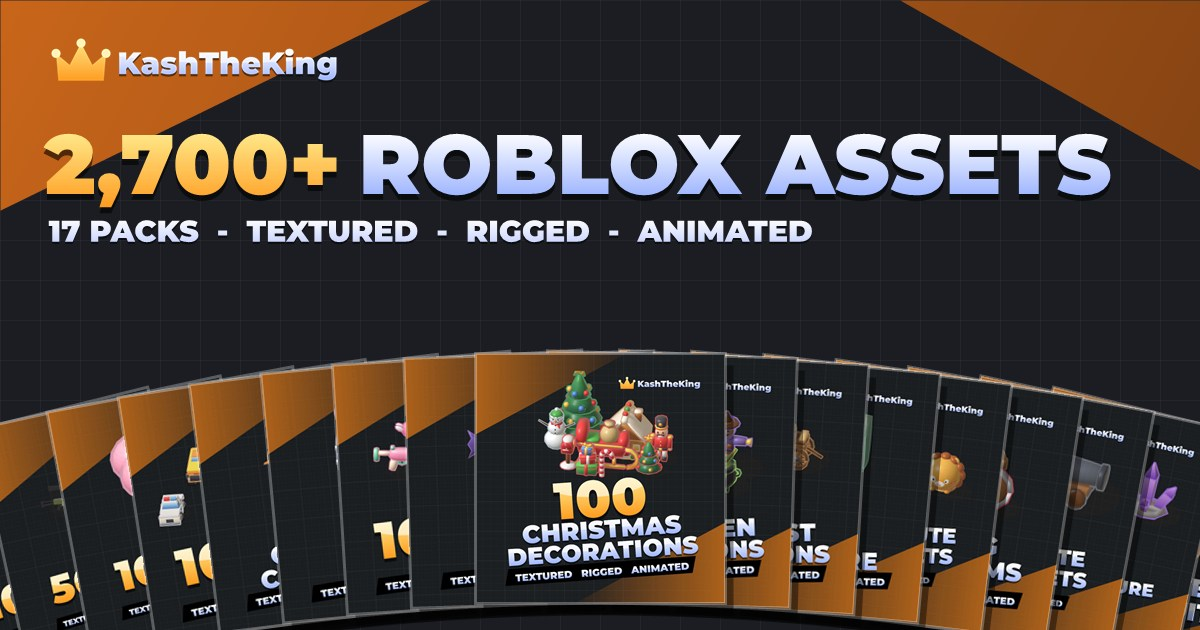
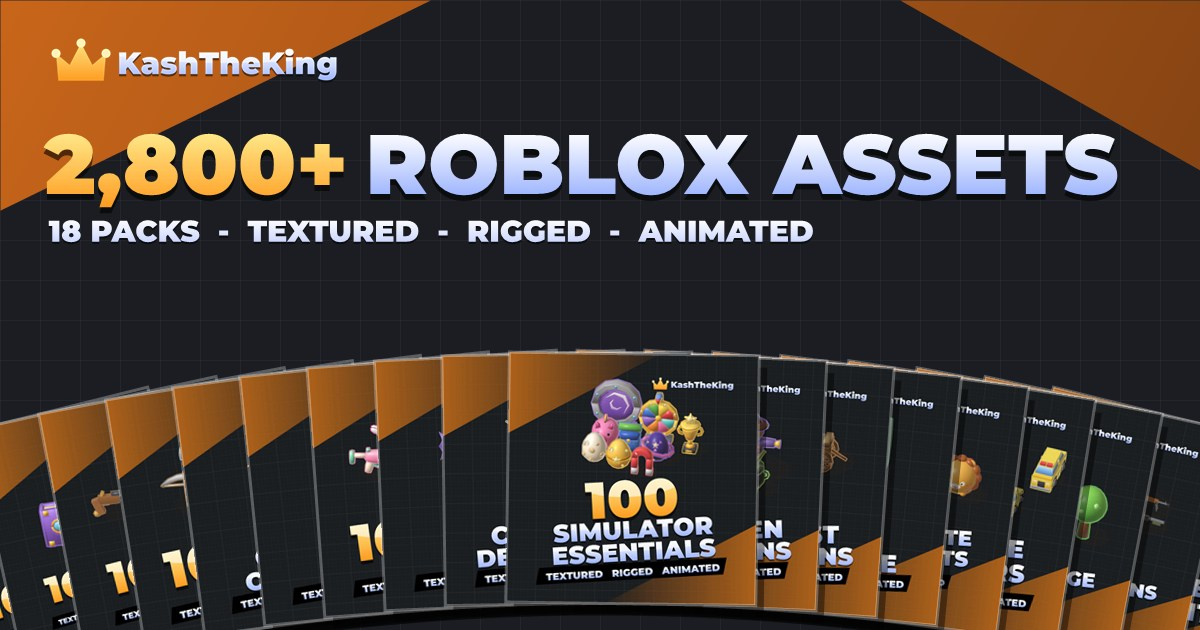
Shop: add 100 Simulator Essentials

diff --git a/shop/index.html b/shop/index.html
@@ -17,7 +17,7 @@
     <link rel="icon" type="image/png" sizes="32x32" href="/assets/favicon-crown-32.png">
     <link rel="apple-touch-icon" sizes="180x180" href="/assets/favicon-crown-180.png">
     <link rel="canonical" href="https://kashtheking.com/shop/">
-    <!--packs:start--><script type="application/ld+json">{"@context":"https://schema.org","@type":"ItemList","name":"Roblox asset packs by KashTheKing","numberOfItems":17,"itemListElement":[{"@type":"ListItem","position":1,"name":"100 Christmas Decorations","url":"https://kashtheking.com/shop/100-christmas-decorations/"},{"@type":"ListItem","position":2,"name":"100 Spooky Tools","url":"https://kashtheking.com/shop/100-spooky-tools/"},{"@type":"ListItem","position":3,"name":"100 Halloween Decorations","url":"https://kashtheking.com/shop/100-halloween-decorations/"},{"@type":"ListItem","position":4,"name":"100 Cute Guns","url":"https://kashtheking.com/shop/100-cute-guns/"},{"@type":"ListItem","position":5,"name":"100 Wild West Decorations","url":"https://kashtheking.com/shop/100-wild-west-decorations/"},{"@type":"ListItem","position":6,"name":"100 Cute Furniture","url":"https://kashtheking.com/shop/100-cute-furniture/"},{"@type":"ListItem","position":7,"name":"100 Cute Tycoon Assets","url":"https://kashtheking.com/shop/100-cute-tycoon-assets/"},{"@type":"ListItem","position":8,"name":"1000 Cute Pets","url":"https://kashtheking.com/shop/1000-cute-pets/"},{"@type":"ListItem","position":9,"name":"250 Cute Sea Creatures","url":"https://kashtheking.com/shop/250-cute-sea-creatures/"},{"@type":"ListItem","position":10,"name":"100 RPG Items","url":"https://kashtheking.com/shop/100-rpg-items/"},{"@type":"ListItem","position":11,"name":"100 Cute Cars","url":"https://kashtheking.com/shop/100-cute-cars/"},{"@type":"ListItem","position":12,"name":"100 Cute Foliage","url":"https://kashtheking.com/shop/100-cute-foliage/"},{"@type":"ListItem","position":13,"name":"100 Pirate Assets","url":"https://kashtheking.com/shop/100-pirate-assets/"},{"@type":"ListItem","position":14,"name":"100 Magic \u0026 Treasure Items","url":"https://kashtheking.com/shop/100-magic-and-treasure-items/"},{"@type":"ListItem","position":15,"name":"50 Low Poly Guns","url":"https://kashtheking.com/shop/50-low-poly-guns/"},{"@type":"ListItem","position":16,"name":"100 Cute Fruits","url":"https://kashtheking.com/shop/100-cute-fruits/"},{"@type":"ListItem","position":17,"name":"100 RPG Enemies","url":"https://kashtheking.com/shop/100-rpg-enemies/"}]}</script><!--packs:end-->
+    <!--packs:start--><script type="application/ld+json">{"@context":"https://schema.org","@type":"ItemList","name":"Roblox asset packs by KashTheKing","numberOfItems":18,"itemListElement":[{"@type":"ListItem","position":1,"name":"100 Simulator Essentials","url":"https://kashtheking.com/shop/100-simulator-essentials/"},{"@type":"ListItem","position":2,"name":"100 Christmas Decorations","url":"https://kashtheking.com/shop/100-christmas-decorations/"},{"@type":"ListItem","position":3,"name":"100 Spooky Tools","url":"https://kashtheking.com/shop/100-spooky-tools/"},{"@type":"ListItem","position":4,"name":"100 Halloween Decorations","url":"https://kashtheking.com/shop/100-halloween-decorations/"},{"@type":"ListItem","position":5,"name":"100 Cute Guns","url":"https://kashtheking.com/shop/100-cute-guns/"},{"@type":"ListItem","position":6,"name":"100 Wild West Decorations","url":"https://kashtheking.com/shop/100-wild-west-decorations/"},{"@type":"ListItem","position":7,"name":"100 Cute Furniture","url":"https://kashtheking.com/shop/100-cute-furniture/"},{"@type":"ListItem","position":8,"name":"100 Cute Tycoon Assets","url":"https://kashtheking.com/shop/100-cute-tycoon-assets/"},{"@type":"ListItem","position":9,"name":"1000 Cute Pets","url":"https://kashtheking.com/shop/1000-cute-pets/"},{"@type":"ListItem","position":10,"name":"250 Cute Sea Creatures","url":"https://kashtheking.com/shop/250-cute-sea-creatures/"},{"@type":"ListItem","position":11,"name":"100 RPG Items","url":"https://kashtheking.com/shop/100-rpg-items/"},{"@type":"ListItem","position":12,"name":"100 Cute Cars","url":"https://kashtheking.com/shop/100-cute-cars/"},{"@type":"ListItem","position":13,"name":"100 Cute Foliage","url":"https://kashtheking.com/shop/100-cute-foliage/"},{"@type":"ListItem","position":14,"name":"100 Pirate Assets","url":"https://kashtheking.com/shop/100-pirate-assets/"},{"@type":"ListItem","position":15,"name":"100 Magic \u0026 Treasure Items","url":"https://kashtheking.com/shop/100-magic-and-treasure-items/"},{"@type":"ListItem","position":16,"name":"50 Low Poly Guns","url":"https://kashtheking.com/shop/50-low-poly-guns/"},{"@type":"ListItem","position":17,"name":"100 Cute Fruits","url":"https://kashtheking.com/shop/100-cute-fruits/"},{"@type":"ListItem","position":18,"name":"100 RPG Enemies","url":"https://kashtheking.com/shop/100-rpg-enemies/"}]}</script><!--packs:end-->
     <link href="https://fonts.googleapis.com/css2?family=Inter:wght@400;600;700;800&family=Montserrat:wght@800;900&display=swap" rel="stylesheet">
     <style>
         * { margin: 0; padding: 0; box-sizing: border-box; }
@@ -104,7 +104,7 @@
     </div>
 
     <main>
-        <div id="grid" class="grid" aria-live="polite"><!--grid:start--><a class="card" href="100-christmas-decorations/"><img src="img/100Christmas.jpg" alt="100 Christmas Decorations Roblox asset pack" loading="lazy" width="540" height="540"><div class="body"><h2>100 Christmas Decorations</h2><p>100 chunky low-poly Christmas and winter decorations: snowy pines and decorated trees, presents, candy canes and gingerbread, snowmen and snow forts, ice, ornaments, lights and village props. Textured, rigged and animated.</p></div></a><a class="card" href="100-spooky-tools/"><img src="img/100SpookyTools.jpg" alt="100 Spooky Tools Roblox asset pack" loading="lazy" width="540" height="540"><div class="body"><h2>100 Spooky Tools</h2><p>100 chunky low-poly Halloween tools for simulator and survival games: axes, pickaxes, hammers, shovels, swords, scythes, staffs and pitchforks in upgrade tiers from wood and bone to pumpkin, bat, slime, skull and cursed. Textured, rigged and animated.</p></div></a><a class="card" href="100-halloween-decorations/"><img src="img/100HalloweenDecor.jpg" alt="100 Halloween Decorations Roblox asset pack" loading="lazy" width="540" height="540"><div class="body"><h2>100 Halloween Decorations</h2><p>100 chunky cute-spooky Halloween map decorations: dead trees, pumpkins and jack-o-lanterns, gravestones and crypts, fences and gates, candles and lanterns, witch props, bones and decor. Textured, rigged and animated.</p></div></a><a class="card" href="100-cute-guns/"><img src="img/100CuteGuns.jpg" alt="100 Cute Guns Roblox asset pack" loading="lazy" width="540" height="540"><div class="body"><h2>100 Cute Guns</h2><p>100 cute, chubby toy blasters: pistols, SMGs, rifles, shotguns, snipers, launchers, ray guns and novelty guns in pastel and candy colours. Textured, rigged and animated.</p></div></a><a class="card" href="100-wild-west-decorations/"><img src="img/100WildWest.jpg" alt="100 Wild West Decorations Roblox asset pack" loading="lazy" width="540" height="540"><div class="body"><h2>100 Wild West Decorations</h2><p>100 chunky low-poly Wild West map decorations: cacti, tumbleweeds, dead trees, desert rocks and mesas, town props, ranch fences and wagons, mine carts and rails, and camp gear. Textured, rigged and animated.</p></div></a><a class="card" href="100-cute-furniture/"><img src="img/100CuteFurniture.jpg" alt="100 Cute Furniture Roblox asset pack" loading="lazy" width="540" height="540"><div class="body"><h2>100 Cute Furniture</h2><p>100 cute rounded low-poly furniture pieces in pastel colours for roleplay, housing and tycoon games: living room, bedroom, kitchen, bathroom, office, kids and gaming, decor and outdoor. Textured, rigged and animated.</p></div></a><a class="card" href="100-cute-tycoon-assets/"><img src="img/100CuteTycoon.jpg" alt="100 Cute Tycoon Assets Roblox asset pack" loading="lazy" width="540" height="540"><div class="body"><h2>100 Cute Tycoon Assets</h2><p>100 cute rounded pastel tycoon assets: droppers in ten tiers, conveyors and pipes, upgraders, furnaces and machines, cash, coins, gold and safes, crates and ores, walls, doors, floors and stairs, decor, buttons, pads, trophies and a teleporter. Textured, rigged and animated.</p></div></a><a class="card" href="1000-cute-pets/"><img src="img/1000CutePets.jpg" alt="1000 Cute Pets Roblox asset pack" loading="lazy" width="540" height="540"><div class="body"><h2>1000 Cute Pets</h2><p>1000 cute round pets and animals with happy, neutral and angry faces. Cats, dogs, farm, forest, safari, birds, reptiles, sea creatures, bugs and mythical beasts. Textured, rigged and animated.</p></div></a><a class="card" href="250-cute-sea-creatures/"><img src="img/250CuteSeaCreatures.jpg" alt="250 Cute Sea Creatures Roblox asset pack" loading="lazy" width="540" height="540"><div class="body"><h2>250 Cute Sea Creatures</h2><p>250 cute low-poly sea creatures: fish, sharks, whales, dolphins, crabs, lobsters, octopuses, squid, jellyfish and more. They swim, blink and bite. Textured, rigged and animated.</p></div></a><a class="card" href="100-rpg-items/"><img src="img/100RPGItems.jpg" alt="100 RPG Items Roblox asset pack" loading="lazy" width="540" height="540"><div class="body"><h2>100 RPG Items</h2><p>100 chunky low-poly RPG and survival items: tools, weapons, armour, gear, food, resources, crafting stations and economy props. Textured, rigged and animated.</p></div></a><a class="card" href="100-cute-cars/"><img src="img/100CuteCars.jpg" alt="100 Cute Cars Roblox asset pack" loading="lazy" width="540" height="540"><div class="body"><h2>100 Cute Cars</h2><p>100 low-poly cartoon cars: compacts, sedans, sports cars, utility vehicles, service vehicles, fun vehicles, heavy trucks and vintage cars. Wheels are separate bones that spin, tyres have a black outline, no interiors. Textured, rigged and animated.</p></div></a><a class="card" href="100-cute-foliage/"><img src="img/100CuteFoliage.jpg" alt="100 Cute Foliage Roblox asset pack" loading="lazy" width="540" height="540"><div class="body"><h2>100 Cute Foliage</h2><p>100 cute low-poly terrain decorations: trees, pines, bushes, grass, flowers, mushrooms, rocks, fallen logs and stumps. Textured, rigged and animated.</p></div></a><a class="card" href="100-pirate-assets/"><img src="img/100PirateAssets.jpg" alt="100 Pirate Assets Roblox asset pack" loading="lazy" width="540" height="540"><div class="body"><h2>100 Pirate Assets</h2><p>100 chunky low-poly pirate assets: characters, creatures, weapons, treasure, ship parts and island props. Textured, rigged and animated.</p></div></a><a class="card" href="100-magic-and-treasure-items/"><img src="img/100MagicTreasure.jpg" alt="100 Magic &amp; Treasure Items Roblox asset pack" loading="lazy" width="540" height="540"><div class="body"><h2>100 Magic &amp; Treasure Items</h2><p>100 chunky low-poly potions, gems, crystals, magic items, jewelry and treasure. Textured, rigged and animated.</p></div></a><a class="card" href="50-low-poly-guns/"><img src="img/50LowPolyGuns.jpg" alt="50 Low Poly Guns Roblox asset pack" loading="lazy" width="540" height="540"><div class="body"><h2>50 Low Poly Guns</h2><p>50 chunky low-poly guns and firearms. Textured, rigged and animated.</p></div></a><a class="card" href="100-cute-fruits/"><img src="img/100CuteFruits.jpg" alt="100 Cute Fruits Roblox asset pack" loading="lazy" width="540" height="540"><div class="body"><h2>100 Cute Fruits</h2><p>100 cute low-poly fruits with blinking faces and a soft glowing outline. Every fruit has an idle wiggle and a blink.</p></div></a><a class="card" href="100-rpg-enemies/"><img src="img/100RPGEnemies.jpg" alt="100 RPG Enemies Roblox asset pack" loading="lazy" width="540" height="540"><div class="body"><h2>100 RPG Enemies</h2><p>100 chunky low-poly RPG enemies: cute slimes, big angry slimes, skeletons, undead, goblins and orcs, golems, dragons, beasts and dark forces. Textured, rigged and animated.</p></div></a><!--grid:end--></div>
+        <div id="grid" class="grid" aria-live="polite"><!--grid:start--><a class="card" href="100-simulator-essentials/"><img src="img/100SimulatorEssentials.jpg" alt="100 Simulator Essentials Roblox asset pack" loading="lazy" width="540" height="540"><div class="body"><h2>100 Simulator Essentials</h2><p>100 chunky low-poly props for simulator games: pet eggs, hatching stands, coins and gems, breakables, gates, portals and islands, shop and upgrade stations, boosts and rewards. Textured, rigged and animated.</p></div></a><a class="card" href="100-christmas-decorations/"><img src="img/100Christmas.jpg" alt="100 Christmas Decorations Roblox asset pack" loading="lazy" width="540" height="540"><div class="body"><h2>100 Christmas Decorations</h2><p>100 chunky low-poly Christmas and winter decorations: snowy pines and decorated trees, presents, candy canes and gingerbread, snowmen and snow forts, ice, ornaments, lights and village props. Textured, rigged and animated.</p></div></a><a class="card" href="100-spooky-tools/"><img src="img/100SpookyTools.jpg" alt="100 Spooky Tools Roblox asset pack" loading="lazy" width="540" height="540"><div class="body"><h2>100 Spooky Tools</h2><p>100 chunky low-poly Halloween tools for simulator and survival games: axes, pickaxes, hammers, shovels, swords, scythes, staffs and pitchforks in upgrade tiers from wood and bone to pumpkin, bat, slime, skull and cursed. Textured, rigged and animated.</p></div></a><a class="card" href="100-halloween-decorations/"><img src="img/100HalloweenDecor.jpg" alt="100 Halloween Decorations Roblox asset pack" loading="lazy" width="540" height="540"><div class="body"><h2>100 Halloween Decorations</h2><p>100 chunky cute-spooky Halloween map decorations: dead trees, pumpkins and jack-o-lanterns, gravestones and crypts, fences and gates, candles and lanterns, witch props, bones and decor. Textured, rigged and animated.</p></div></a><a class="card" href="100-cute-guns/"><img src="img/100CuteGuns.jpg" alt="100 Cute Guns Roblox asset pack" loading="lazy" width="540" height="540"><div class="body"><h2>100 Cute Guns</h2><p>100 cute, chubby toy blasters: pistols, SMGs, rifles, shotguns, snipers, launchers, ray guns and novelty guns in pastel and candy colours. Textured, rigged and animated.</p></div></a><a class="card" href="100-wild-west-decorations/"><img src="img/100WildWest.jpg" alt="100 Wild West Decorations Roblox asset pack" loading="lazy" width="540" height="540"><div class="body"><h2>100 Wild West Decorations</h2><p>100 chunky low-poly Wild West map decorations: cacti, tumbleweeds, dead trees, desert rocks and mesas, town props, ranch fences and wagons, mine carts and rails, and camp gear. Textured, rigged and animated.</p></div></a><a class="card" href="100-cute-furniture/"><img src="img/100CuteFurniture.jpg" alt="100 Cute Furniture Roblox asset pack" loading="lazy" width="540" height="540"><div class="body"><h2>100 Cute Furniture</h2><p>100 cute rounded low-poly furniture pieces in pastel colours for roleplay, housing and tycoon games: living room, bedroom, kitchen, bathroom, office, kids and gaming, decor and outdoor. Textured, rigged and animated.</p></div></a><a class="card" href="100-cute-tycoon-assets/"><img src="img/100CuteTycoon.jpg" alt="100 Cute Tycoon Assets Roblox asset pack" loading="lazy" width="540" height="540"><div class="body"><h2>100 Cute Tycoon Assets</h2><p>100 cute rounded pastel tycoon assets: droppers in ten tiers, conveyors and pipes, upgraders, furnaces and machines, cash, coins, gold and safes, crates and ores, walls, doors, floors and stairs, decor, buttons, pads, trophies and a teleporter. Textured, rigged and animated.</p></div></a><a class="card" href="1000-cute-pets/"><img src="img/1000CutePets.jpg" alt="1000 Cute Pets Roblox asset pack" loading="lazy" width="540" height="540"><div class="body"><h2>1000 Cute Pets</h2><p>1000 cute round pets and animals with happy, neutral and angry faces. Cats, dogs, farm, forest, safari, birds, reptiles, sea creatures, bugs and mythical beasts. Textured, rigged and animated.</p></div></a><a class="card" href="250-cute-sea-creatures/"><img src="img/250CuteSeaCreatures.jpg" alt="250 Cute Sea Creatures Roblox asset pack" loading="lazy" width="540" height="540"><div class="body"><h2>250 Cute Sea Creatures</h2><p>250 cute low-poly sea creatures: fish, sharks, whales, dolphins, crabs, lobsters, octopuses, squid, jellyfish and more. They swim, blink and bite. Textured, rigged and animated.</p></div></a><a class="card" href="100-rpg-items/"><img src="img/100RPGItems.jpg" alt="100 RPG Items Roblox asset pack" loading="lazy" width="540" height="540"><div class="body"><h2>100 RPG Items</h2><p>100 chunky low-poly RPG and survival items: tools, weapons, armour, gear, food, resources, crafting stations and economy props. Textured, rigged and animated.</p></div></a><a class="card" href="100-cute-cars/"><img src="img/100CuteCars.jpg" alt="100 Cute Cars Roblox asset pack" loading="lazy" width="540" height="540"><div class="body"><h2>100 Cute Cars</h2><p>100 low-poly cartoon cars: compacts, sedans, sports cars, utility vehicles, service vehicles, fun vehicles, heavy trucks and vintage cars. Wheels are separate bones that spin, tyres have a black outline, no interiors. Textured, rigged and animated.</p></div></a><a class="card" href="100-cute-foliage/"><img src="img/100CuteFoliage.jpg" alt="100 Cute Foliage Roblox asset pack" loading="lazy" width="540" height="540"><div class="body"><h2>100 Cute Foliage</h2><p>100 cute low-poly terrain decorations: trees, pines, bushes, grass, flowers, mushrooms, rocks, fallen logs and stumps. Textured, rigged and animated.</p></div></a><a class="card" href="100-pirate-assets/"><img src="img/100PirateAssets.jpg" alt="100 Pirate Assets Roblox asset pack" loading="lazy" width="540" height="540"><div class="body"><h2>100 Pirate Assets</h2><p>100 chunky low-poly pirate assets: characters, creatures, weapons, treasure, ship parts and island props. Textured, rigged and animated.</p></div></a><a class="card" href="100-magic-and-treasure-items/"><img src="img/100MagicTreasure.jpg" alt="100 Magic &amp; Treasure Items Roblox asset pack" loading="lazy" width="540" height="540"><div class="body"><h2>100 Magic &amp; Treasure Items</h2><p>100 chunky low-poly potions, gems, crystals, magic items, jewelry and treasure. Textured, rigged and animated.</p></div></a><a class="card" href="50-low-poly-guns/"><img src="img/50LowPolyGuns.jpg" alt="50 Low Poly Guns Roblox asset pack" loading="lazy" width="540" height="540"><div class="body"><h2>50 Low Poly Guns</h2><p>50 chunky low-poly guns and firearms. Textured, rigged and animated.</p></div></a><a class="card" href="100-cute-fruits/"><img src="img/100CuteFruits.jpg" alt="100 Cute Fruits Roblox asset pack" loading="lazy" width="540" height="540"><div class="body"><h2>100 Cute Fruits</h2><p>100 cute low-poly fruits with blinking faces and a soft glowing outline. Every fruit has an idle wiggle and a blink.</p></div></a><a class="card" href="100-rpg-enemies/"><img src="img/100RPGEnemies.jpg" alt="100 RPG Enemies Roblox asset pack" loading="lazy" width="540" height="540"><div class="body"><h2>100 RPG Enemies</h2><p>100 chunky low-poly RPG enemies: cute slimes, big angry slimes, skeletons, undead, goblins and orcs, golems, dragons, beasts and dark forces. Textured, rigged and animated.</p></div></a><!--grid:end--></div>
         <p id="empty" class="empty" hidden>No packs match that search.</p>
 
         <section class="info" aria-label="About the packs">

diff --git a/shop/100-simulator-essentials/index.html b/shop/100-simulator-essentials/index.html
@@ -1,0 +1,205 @@
+<!DOCTYPE html>
+<html lang="en">
+<head>
+    <meta charset="UTF-8">
+    <meta name="viewport" content="width=device-width, initial-scale=1.0">
+    <!--seo:start-->
+    <title>100 Simulator Essentials - Roblox Asset Pack | KashTheKing Shop</title>
+    <meta name="description" content="100 chunky low-poly props for simulator games: pet eggs, hatching stands, coins and gems, breakables, gates, portals and islands, shop and upgrade stations, boosts and rewards. Textured, rigged and animated. 100 low-poly models for Roblox Studio, $9.99 on the Creator Store.">
+    <link rel="canonical" href="https://kashtheking.com/shop/100-simulator-essentials/">
+    <meta property="og:type" content="product">
+    <meta property="og:site_name" content="KashTheKing Shop">
+    <meta property="og:url" content="https://kashtheking.com/shop/100-simulator-essentials/">
+    <meta property="og:title" content="100 Simulator Essentials - Roblox Asset Pack">
+    <meta property="og:description" content="100 chunky low-poly props for simulator games: pet eggs, hatching stands, coins and gems, breakables, gates, portals and islands, shop and upgrade stations, boosts and rewards. Textured, rigged and animated.">
+    <meta property="og:image" content="https://kashtheking.com/shop/img/100SimulatorEssentials/01.jpg">
+    <meta name="twitter:card" content="summary_large_image">
+    <script type="application/ld+json">{"@context":"https://schema.org","@type":"Product","name":"100 Simulator Essentials - Roblox Asset Pack","description":"100 chunky low-poly props for simulator games: pet eggs, hatching stands, coins and gems, breakables, gates, portals and islands, shop and upgrade stations, boosts and rewards. Textured, rigged and animated.","image":["https://kashtheking.com/shop/img/100SimulatorEssentials.jpg","https://kashtheking.com/shop/img/100SimulatorEssentials/01.jpg","https://kashtheking.com/shop/img/100SimulatorEssentials/02.jpg","https://kashtheking.com/shop/img/100SimulatorEssentials/03.jpg","https://kashtheking.com/shop/img/100SimulatorEssentials/04.jpg","https://kashtheking.com/shop/img/100SimulatorEssentials/05.jpg","https://kashtheking.com/shop/img/100SimulatorEssentials/06.jpg","https://kashtheking.com/shop/img/100SimulatorEssentials/09.jpg"],"url":"https://kashtheking.com/shop/100-simulator-essentials/","category":"Roblox asset pack","brand":{"name":"KashTheKing","@type":"Brand"},"offers":{"@type":"Offer","price":"9.99","priceCurrency":"USD","availability":"https://schema.org/InStock","url":"https://create.roblox.com/store/asset/98284485465970"}}</script>
+    <script type="application/ld+json">{"@context":"https://schema.org","@type":"BreadcrumbList","itemListElement":[{"@type":"ListItem","position":1,"name":"KashTheKing","item":"https://kashtheking.com/"},{"@type":"ListItem","position":2,"name":"Roblox Asset Packs","item":"https://kashtheking.com/shop/"},{"@type":"ListItem","position":3,"name":"100 Simulator Essentials","item":"https://kashtheking.com/shop/100-simulator-essentials/"}]}</script>
+    <script>window.PACK_SLUG = "100SimulatorEssentials";</script>
+<!--seo:end-->
+    <meta name="theme-color" content="#1c1e22">
+    <link rel="icon" type="image/png" sizes="32x32" href="/assets/favicon-crown-32.png">
+    <link rel="apple-touch-icon" sizes="180x180" href="/assets/favicon-crown-180.png">
+    <link href="https://fonts.googleapis.com/css2?family=Inter:wght@400;600;700;800&family=Montserrat:wght@800;900&display=swap" rel="stylesheet">
+    <style>
+        * { margin: 0; padding: 0; box-sizing: border-box; }
+        :root { --bg: #1c1e22; --panel: #26292e; --line: #3a3d44; --text: #fff; --dim: #a9adb6; --gold: #ffb02e; --gold-hi: #ffe98a; --blurple: #5865f2; }
+        body {
+            font-family: 'Inter', -apple-system, BlinkMacSystemFont, sans-serif; color: var(--text); min-height: 100vh; display: flex; flex-direction: column;
+            background-color: var(--bg);
+            background-image:
+                linear-gradient(rgba(62,65,70,.55) 1px, transparent 1px), linear-gradient(90deg, rgba(62,65,70,.55) 1px, transparent 1px),
+                linear-gradient(rgba(38,41,46,.9) 1px, transparent 1px), linear-gradient(90deg, rgba(38,41,46,.9) 1px, transparent 1px);
+            background-size: 128px 128px, 128px 128px, 32px 32px, 32px 32px;
+        }
+        a { color: inherit; }
+        :focus-visible { outline: 2px solid var(--gold); outline-offset: 3px; }
+        /* Standard watermark (assets/watermark.png), top left like the home page; links home */
+        .brand { position: absolute; top: 22px; left: 28px; z-index: 10; display: block; line-height: 0; text-decoration: none; }
+        .brand img { display: block; width: auto; height: 35px; filter: drop-shadow(0 2px 3px rgba(0,0,0,.45)); }
+        main { flex: 1; width: min(1280px, 100%); margin: 0 auto; padding: 84px 48px 72px; }
+        .back { display: inline-block; margin-bottom: 22px; color: var(--dim); text-decoration: none; font-weight: 600; font-size: 14px; }
+        .back:hover { color: var(--text); }
+        .top { display: grid; grid-template-columns: minmax(0, 1.55fr) minmax(280px, 1fr); gap: 36px; align-items: start; }
+
+        /* slideshow: a horizontal scroll-snap strip, so swiping, trackpads and the buttons all work */
+        .show { position: relative; }
+        .strip { display: flex; overflow-x: auto; scroll-snap-type: x mandatory; scroll-behavior: smooth; border-radius: 16px; border: 1px solid var(--line); background: #14171c; scrollbar-width: none; }
+        .strip::-webkit-scrollbar { display: none; }
+        .strip figure { flex: 0 0 100%; min-width: 0; scroll-snap-align: center; aspect-ratio: 16 / 10; overflow: hidden; }
+        .strip img { width: 100%; height: 100%; object-fit: contain; display: block; }
+        .nav { position: absolute; top: 50%; transform: translateY(-50%); width: 44px; height: 44px; border-radius: 50%; border: 0; background: rgba(0,0,0,.6); color: #fff; font-size: 22px; cursor: pointer; display: grid; place-items: center; }
+        .nav:hover { background: rgba(0,0,0,.85); }
+        .nav[disabled] { opacity: .25; cursor: default; }
+        .prev { left: 12px; } .next { right: 12px; }
+        /* zoom: + / - / reset buttons, mouse wheel over the image, drag to pan while zoomed */
+        .strip img { transform-origin: center; transition: transform .12s ease; will-change: transform; user-select: none; -webkit-user-drag: none; }
+        .strip.zoomed { overflow-x: hidden; scroll-snap-type: none; cursor: grab; }
+        .strip.zoomed.dragging { cursor: grabbing; } .strip.dragging img { transition: none; }
+        .zoom { position: absolute; right: 12px; bottom: 12px; display: flex; gap: 6px; padding: 6px; border-radius: 999px; background: rgba(0,0,0,.6); }
+        .zoom button { width: 34px; height: 34px; border-radius: 50%; border: 0; background: rgba(255,255,255,.14); color: #fff; font-size: 18px; font-weight: 700; cursor: pointer; }
+        .zoom button:hover { background: rgba(255,255,255,.28); } .zoom button[disabled] { opacity: .35; cursor: default; }
+        .zoom output { min-width: 46px; display: grid; place-items: center; font-size: 13px; font-weight: 700; color: #fff; }
+        .thumbs { display: flex; gap: 8px; margin-top: 12px; overflow-x: auto; padding-bottom: 4px; }
+        .thumbs button { flex: 0 0 auto; width: 84px; height: 56px; padding: 0; border-radius: 8px; border: 2px solid transparent; background: #14171c; cursor: pointer; overflow: hidden; opacity: .6; }
+        .thumbs button[aria-current="true"] { border-color: var(--gold); opacity: 1; }
+        .thumbs img { width: 100%; height: 100%; object-fit: cover; display: block; }
+
+        .side { background: rgba(38,41,46,.92); border: 1px solid var(--line); border-radius: 16px; padding: 26px; display: flex; flex-direction: column; gap: 16px; }
+        h1 { font-family: 'Montserrat', sans-serif; font-weight: 900; font-size: clamp(28px, 3.2vw, 40px); line-height: 1.05; }
+        .meta { display: flex; gap: 8px; flex-wrap: wrap; }
+        .meta span { padding: 4px 10px; border-radius: 6px; background: #1c1e22; color: #d6d9df; font-size: 12px; font-weight: 600; }
+        .desc { color: #d6d9df; line-height: 1.6; font-size: 15px; }
+        .price { font-family: 'Montserrat', sans-serif; font-weight: 900; font-size: 40px; color: var(--gold); }
+        .btn { display: block; text-align: center; padding: 15px 20px; border-radius: 12px; font-weight: 800; font-size: 16px; text-decoration: none; }
+        .roblox { background: var(--gold); color: #1c1e22; } .roblox:hover { background: var(--gold-hi); }
+        .discord { background: var(--blurple); color: #fff; } .discord:hover { filter: brightness(1.12); }
+        .or { text-align: center; color: var(--dim); font-size: 13px; }
+        .list { color: #d6d9df; font-size: 14px; line-height: 1.7; padding-left: 18px; }
+
+        h2 { font-family: 'Montserrat', sans-serif; font-weight: 900; font-size: 26px; margin: 64px 0 20px; }
+        .grid { display: grid; grid-template-columns: repeat(auto-fill, minmax(220px, 1fr)); gap: 20px; }
+        .card { display: flex; flex-direction: column; background: var(--panel); border: 1px solid var(--line); border-radius: 14px; overflow: hidden; text-decoration: none; transition: transform .15s ease, border-color .15s ease; }
+        .card:hover { transform: translateY(-4px); border-color: var(--gold); }
+        .card img { width: 100%; height: auto; aspect-ratio: 1; object-fit: cover; display: block; }
+        .card div { padding: 14px; display: flex; justify-content: space-between; align-items: center; gap: 10px; }
+        .card b { font-size: 15px; } .card span { font-family: 'Montserrat', sans-serif; font-weight: 900; color: var(--gold); }
+        .missing { padding: 80px 0; text-align: center; color: var(--dim); }
+        footer { padding: 28px 48px 40px; color: var(--dim); font-size: 13px; border-top: 1px solid var(--line); background: rgba(20,23,28,.8); }
+        footer a { color: var(--gold); }
+        @media (max-width: 860px) { main { padding: 84px 20px 56px; } .top { grid-template-columns: 1fr; } .brand { left: 16px; } footer { padding-inline: 20px; } .grid { grid-template-columns: repeat(auto-fill, minmax(150px, 1fr)); gap: 12px; } }
+        @media (prefers-reduced-motion: reduce) { * { transition: none !important; scroll-behavior: auto !important; } }
+    </style>
+</head>
+<body>
+    <a class="brand" href="https://kashtheking.com/" aria-label="KashTheKing home"><img class="mark" src="/assets/watermark.png" alt="KashTheKing" width="165" height="35"></a>
+    <main>
+        <a class="back" href="../">← All asset packs</a>
+        <div id="pack"><h1>100 Simulator Essentials - Roblox Asset Pack</h1><p>100 chunky low-poly props for simulator games: pet eggs, hatching stands, coins and gems, breakables, gates, portals and islands, shop and upgrade stations, boosts and rewards. Textured, rigged and animated.</p><p>100 models, $9.99. <a href="https://create.roblox.com/store/asset/98284485465970">Get it on the Roblox Creator Store</a>.</p><img src="../img/100SimulatorEssentials.jpg" alt="100 Simulator Essentials Roblox asset pack thumbnail" width="540" height="540"></div>
+        <p id="missing" class="missing" hidden>That pack was not found. <a href="../">Browse all packs</a>.</p>
+        <section id="more" hidden>
+            <h2>You might also like</h2>
+            <div id="recommended" class="grid"></div>
+        </section>
+    </main>
+    <footer>© KashTheKing · <a href="/">kashtheking.com</a></footer>
+
+    <script>
+        // Page for one pack: /shop/pack/?p=<slug>. Data comes from ../packs.json (generated by build-shop.ps1).
+        const DISCORD = "https://discord.gg/6HYgCk22eD";
+        const slug = window.PACK_SLUG || new URLSearchParams(location.search).get("p");   // static pages (/shop/<page>/) set PACK_SLUG
+        const esc = s => String(s).replace(/[&<>"]/g, c => ({ "&": "&amp;", "<": "&lt;", ">": "&gt;", '"': "&quot;" }[c]));
+        fetch("../packs.json").then(r => r.json()).then(packs => {
+            const p = packs.find(x => x.slug === slug || x.page === slug);
+            if (p && !window.PACK_SLUG && p.page) { location.replace("../" + p.page + "/"); return; }   // old ?p= links go to the pack's own URL
+            if (!p) { document.getElementById("missing").hidden = false; return; }
+            if (!window.PACK_SLUG) document.title = `${p.name} | KashTheKing Shop`;   // static pages already carry their own title
+            const slides = p.slides && p.slides.length ? p.slides : [p.image];
+            document.getElementById("pack").innerHTML = `
+                <div class="top">
+                    <div>
+                        <div class="show">
+                            <div class="strip" id="strip" tabindex="0" aria-label="${esc(p.name)} images. Scroll or use the arrow buttons.">
+                                ${slides.map((s, i) => `<figure><img src="../${s}" alt="${esc(p.name)} image ${i + 1} of ${slides.length}" ${i ? 'loading="lazy"' : ""}></figure>`).join("")}
+                            </div>
+                            <button class="nav prev" id="prev" type="button" aria-label="Previous image">‹</button>
+                            <button class="nav next" id="next" type="button" aria-label="Next image">›</button>
+                            <div class="zoom" role="group" aria-label="Zoom">
+                                <button id="zout" type="button" aria-label="Zoom out">−</button>
+                                <output id="zlevel" aria-live="polite">100%</output>
+                                <button id="zin" type="button" aria-label="Zoom in">+</button>
+                                <button id="zreset" type="button" aria-label="Reset zoom">⟲</button>
+                            </div>
+                        </div>
+                        <div class="thumbs" id="thumbs">
+                            ${slides.map((s, i) => `<button type="button" aria-label="Show image ${i + 1}"><img src="../${s}" alt="" loading="lazy"></button>`).join("")}
+                        </div>
+                    </div>
+                    <aside class="side">
+                        <h1>${esc(p.name)}</h1>
+                        <div class="meta"><span>${p.count} models</span>${p.tags.map(t => `<span>${esc(t)}</span>`).join("")}</div>
+                        <p class="desc">${esc(p.description)}</p>
+                        <div class="price">$${p.price.toFixed(2)}</div>
+                        <a class="btn roblox" href="${p.url}" target="_blank" rel="noopener">Get on Roblox</a>
+                        <div class="or">or</div>
+                        <a class="btn discord" href="${DISCORD}" target="_blank" rel="noopener">Discord for other methods</a>
+                        <ul class="list">
+                            <li>Textured, rigged and animated</li>
+                            <li>One model to insert, ${p.count} assets inside</li>
+                            <li>Use in any game, including commercial ones</li>
+                        </ul>
+                    </aside>
+                </div>`;
+
+            // slideshow controls
+            const strip = document.getElementById("strip"), thumbs = [...document.getElementById("thumbs").children];
+            const prev = document.getElementById("prev"), next = document.getElementById("next");
+            const index = () => Math.round(strip.scrollLeft / strip.clientWidth);
+            const go = i => strip.scrollTo({ left: Math.max(0, Math.min(slides.length - 1, i)) * strip.clientWidth });
+            const sync = () => { const i = index(); thumbs.forEach((t, k) => t.setAttribute("aria-current", k === i)); prev.disabled = i === 0; next.disabled = i === slides.length - 1; };
+            prev.onclick = () => go(index() - 1); next.onclick = () => go(index() + 1);
+            thumbs.forEach((t, k) => t.onclick = () => go(k));
+            strip.addEventListener("scroll", () => requestAnimationFrame(sync));
+            strip.addEventListener("keydown", e => { if (e.key === "ArrowLeft") go(index() - 1); if (e.key === "ArrowRight") go(index() + 1); });
+            sync();
+
+            // zoom: scale the current image and let it be dragged around; any slide change resets it
+            const zin = document.getElementById("zin"), zout = document.getElementById("zout"), zreset = document.getElementById("zreset"), zlevel = document.getElementById("zlevel");
+            let zoom = 1, panX = 0, panY = 0, drag = null;
+            const current = () => strip.children[index()].querySelector("img");
+            function applyZoom() {
+                const limitX = strip.clientWidth * (zoom - 1) / 2, limitY = strip.clientHeight * (zoom - 1) / 2;
+                panX = Math.max(-limitX, Math.min(limitX, panX)); panY = Math.max(-limitY, Math.min(limitY, panY));
+                [...strip.querySelectorAll("img")].forEach(img => img.style.transform = "");
+                current().style.transform = zoom > 1 ? `translate(${panX}px, ${panY}px) scale(${zoom})` : "";
+                strip.classList.toggle("zoomed", zoom > 1);
+                zlevel.textContent = Math.round(zoom * 100) + "%";
+                zout.disabled = zreset.disabled = zoom <= 1; zin.disabled = zoom >= 4;
+            }
+            const setZoom = z => { zoom = Math.max(1, Math.min(4, Math.round(z * 4) / 4)); if (zoom === 1) panX = panY = 0; applyZoom(); };
+            zin.onclick = () => setZoom(zoom + 0.5); zout.onclick = () => setZoom(zoom - 0.5); zreset.onclick = () => setZoom(1);
+            strip.addEventListener("wheel", e => { if (e.ctrlKey || zoom > 1) { e.preventDefault(); setZoom(zoom + (e.deltaY < 0 ? 0.25 : -0.25)); } }, { passive: false });
+            strip.addEventListener("dblclick", () => setZoom(zoom > 1 ? 1 : 2));
+            strip.addEventListener("pointerdown", e => { if (zoom > 1) { drag = { x: e.clientX - panX, y: e.clientY - panY }; strip.classList.add("dragging"); strip.setPointerCapture(e.pointerId); } });
+            strip.addEventListener("pointermove", e => { if (drag) { panX = e.clientX - drag.x; panY = e.clientY - drag.y; applyZoom(); } });
+            const drop = () => { drag = null; strip.classList.remove("dragging"); };
+            strip.addEventListener("pointerup", drop); strip.addEventListener("pointercancel", drop);
+            [prev, next, ...thumbs].forEach(b => b.addEventListener("click", () => setZoom(1), true));
+            applyZoom();
+
+            // recommended: packs sharing the most tags first, then the newest
+            const score = x => x.tags.filter(t => p.tags.includes(t)).length;
+            const others = packs.filter(x => x.slug !== p.slug).sort((a, b) => score(b) - score(a)).slice(0, 4);
+            if (others.length) {
+                document.getElementById("more").hidden = false;
+                document.getElementById("recommended").innerHTML = others.map(o => `
+                    <a class="card" href="../${o.page}/">
+                        <img src="../${o.image}" alt="${esc(o.name)} thumbnail" loading="lazy" width="360" height="360">
+                        <div><b>${esc(o.name)}</b><span>$${o.price.toFixed(2)}</span></div>
+                    </a>`).join("");
+            }
+        }).catch(() => { document.getElementById("missing").hidden = false; });
+    </script>
+</body>
+</html>
